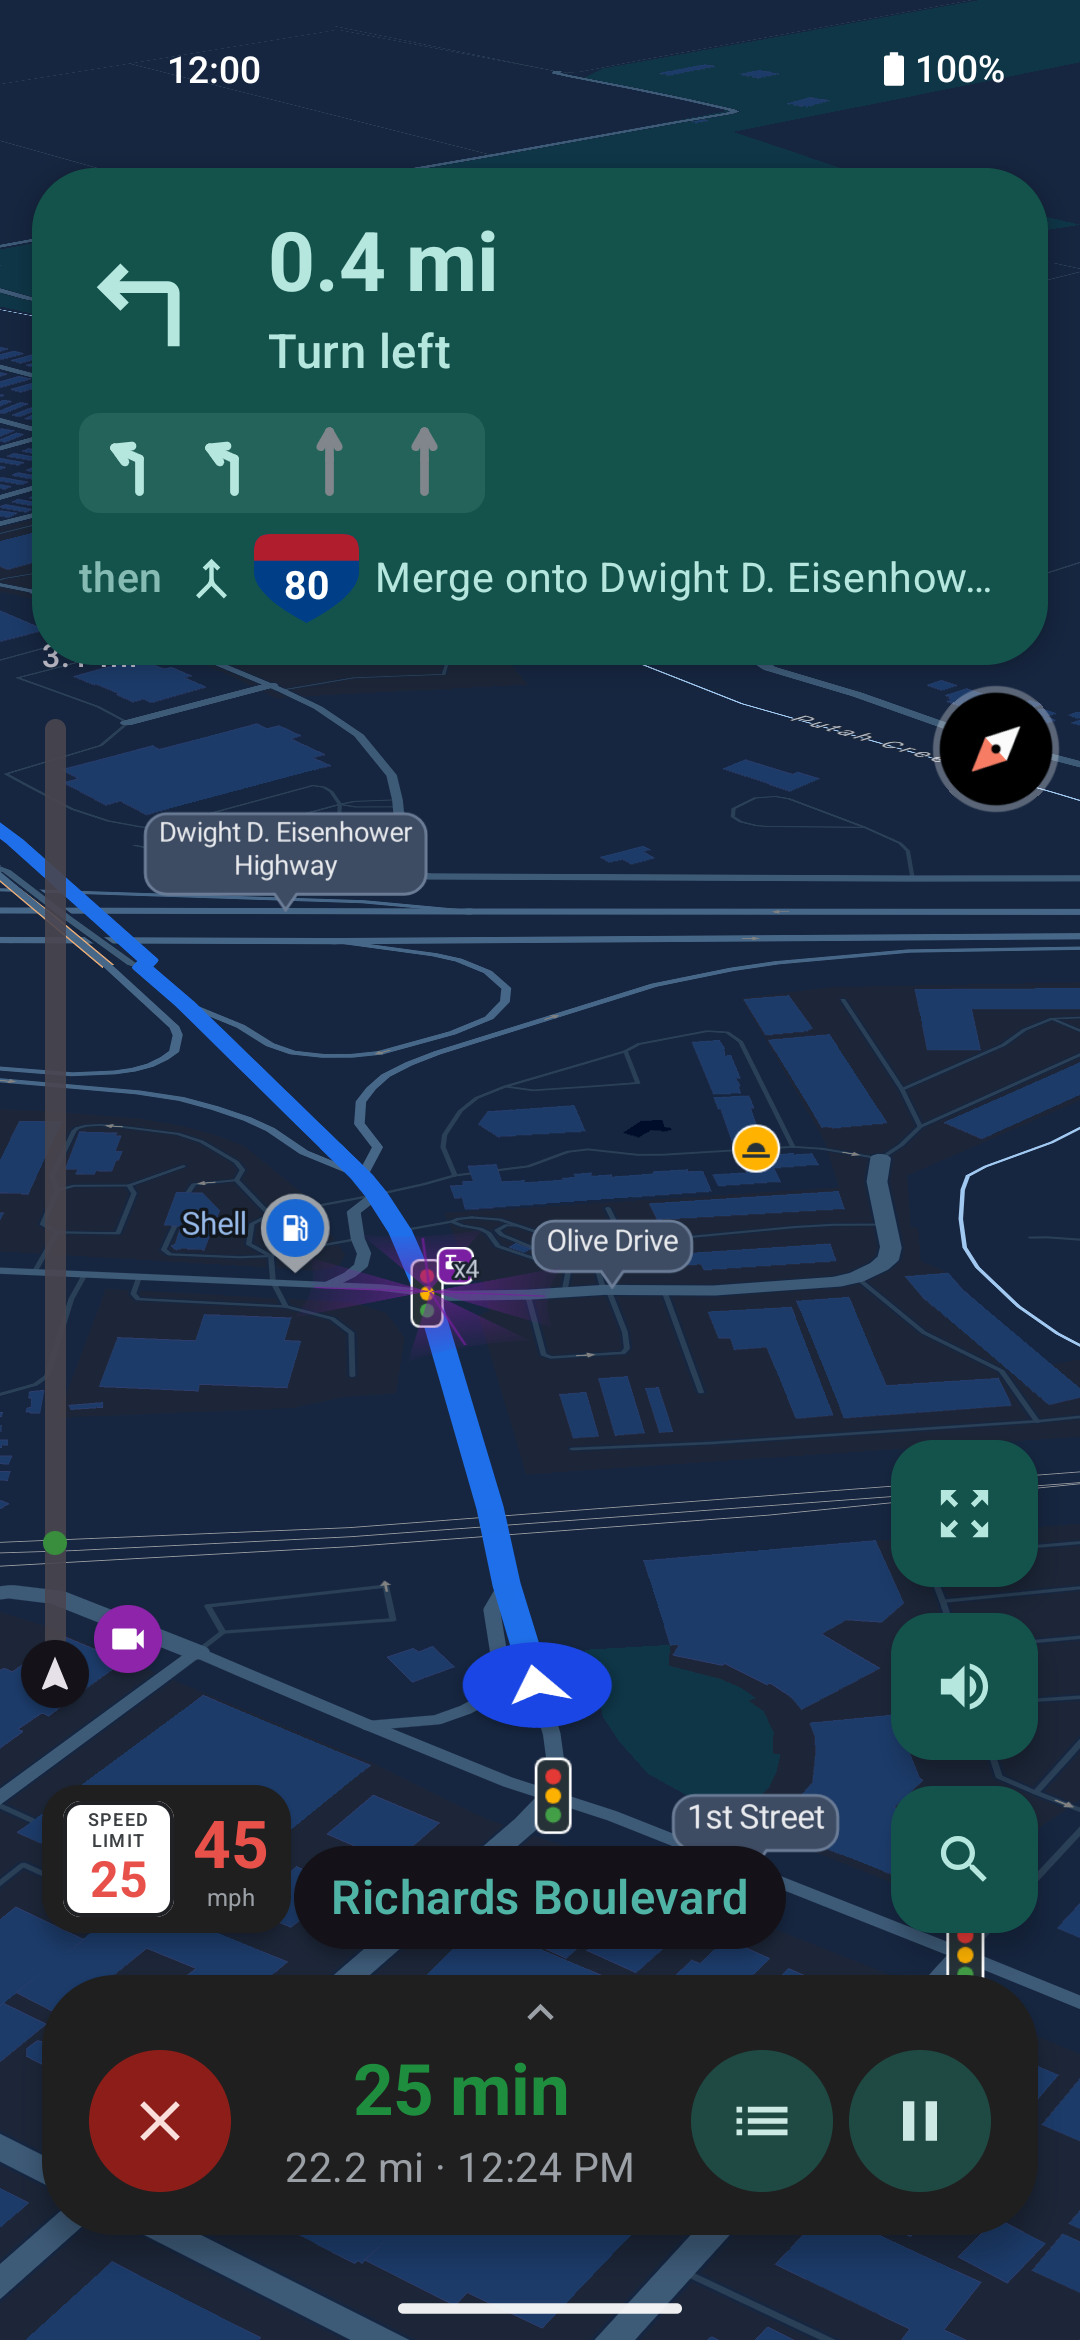
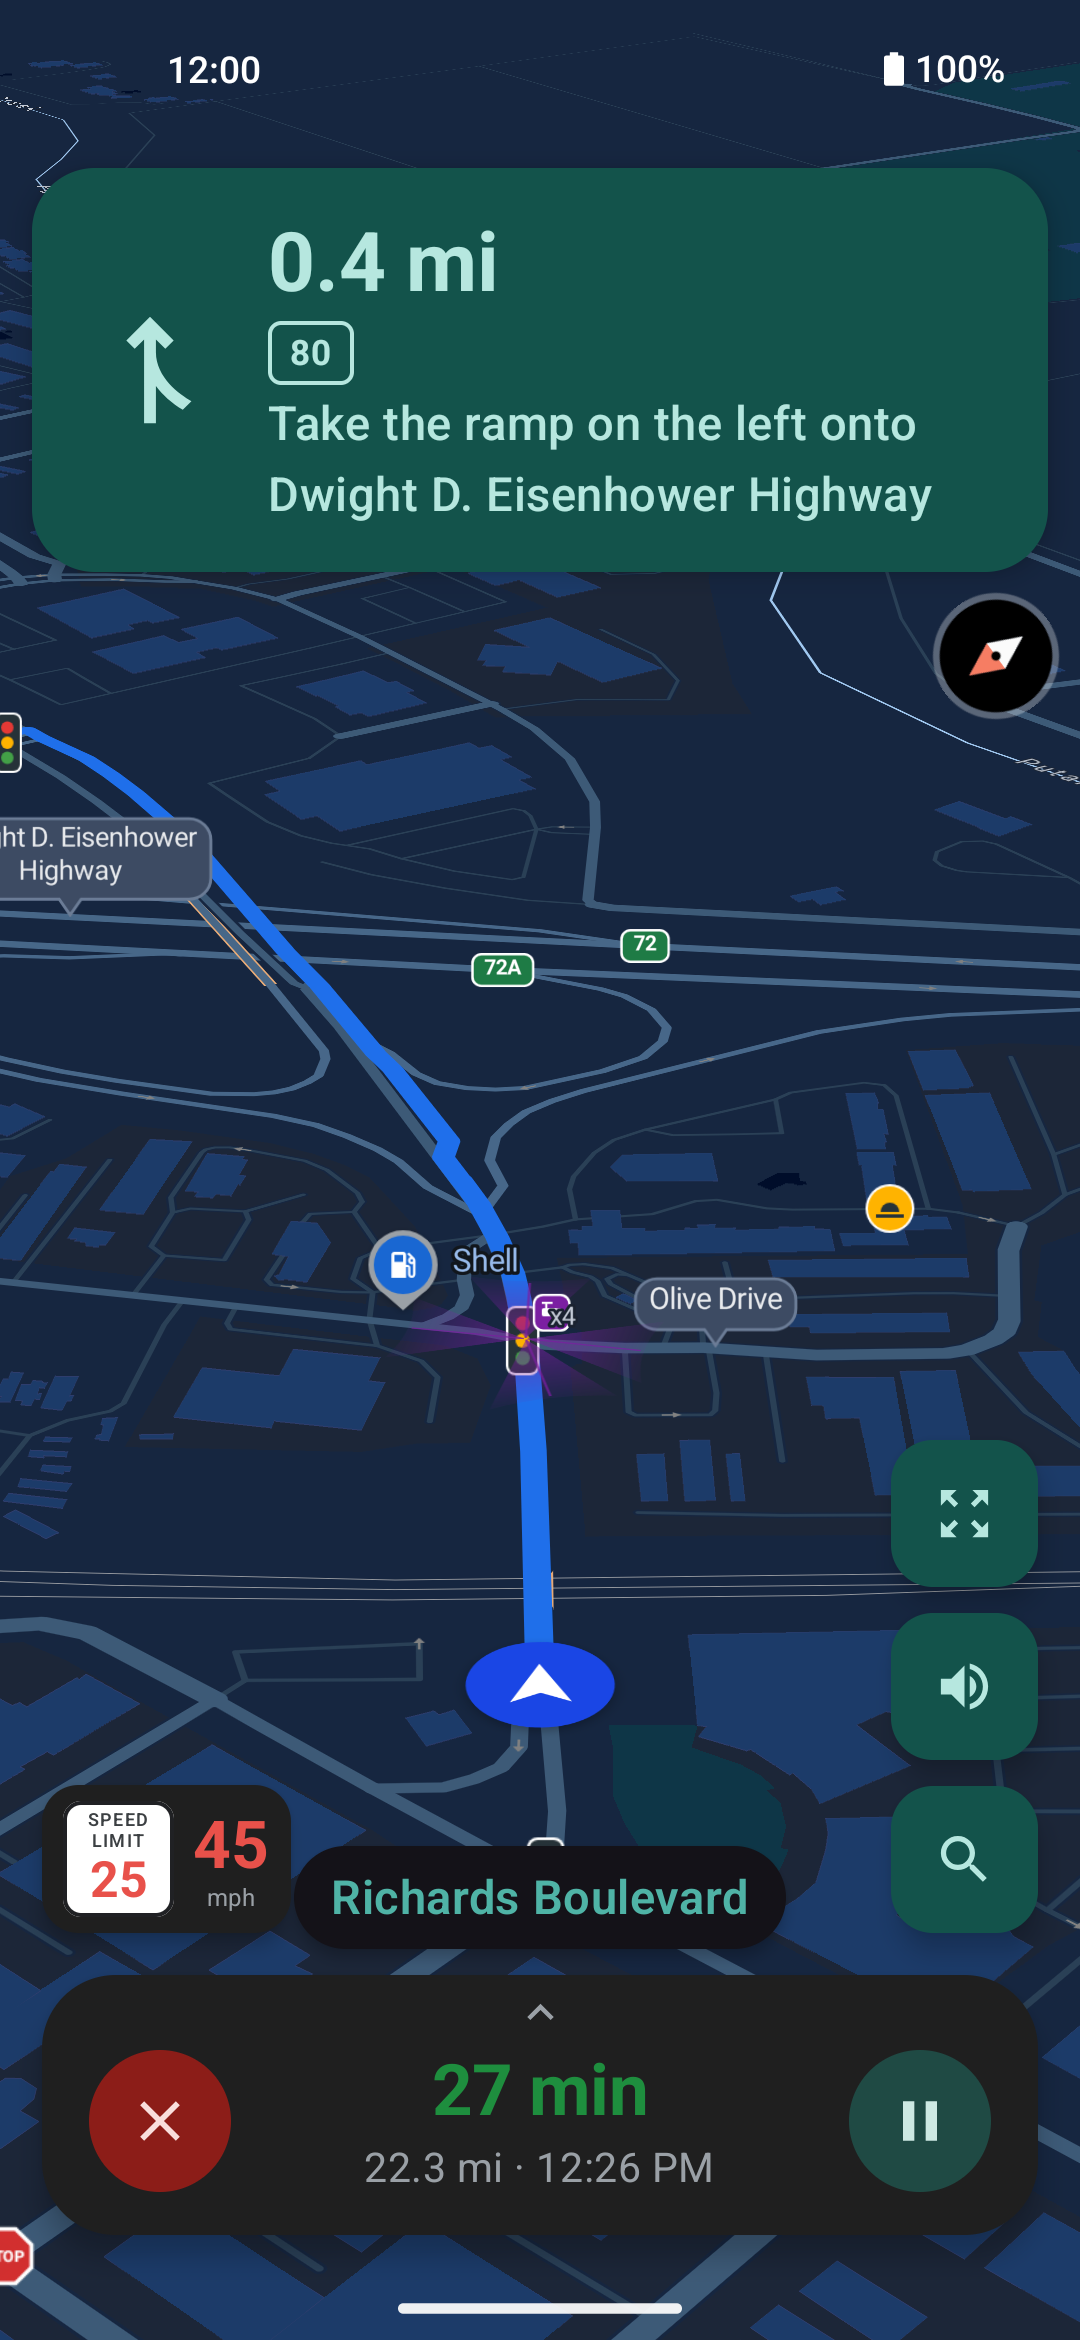
Docs: nav screenshot without the road-ahead bar and the separate steps button

diff --git a/CLAUDE.md b/CLAUDE.md
@@ -2377,7 +2377,8 @@ Defaults that make the safe path the easy one:
   transit boards and itineraries for the next noon, so the set can be shot at any hour. Clear it
   after (`setprop debug.vela.tune.demoClock ''`). The transit shot is framed by expanding and
   collapsing the first itinerary (the fit stays); the stop list is the A line from Memorial Union
-  and the K line from Powell. Camera counts on the route picker need Avoid
+  and the K line from Powell. The nav shot is taken with "Road ahead bar" and "Prefer buttons over
+  swipes" OFF (their defaults; the 4a keeps both on for testing, so switch them off and back). Camera counts on the route picker need Avoid
   surveillance cameras ON for the shot (restore OFF after). The site (site/assets/*.webp)
   carries the same shots at 720px q82. Site assets are ALL bundled locally (no hotlinks -
   the page makes zero external requests): the Obtainium/F-Droid badges are committed copies
